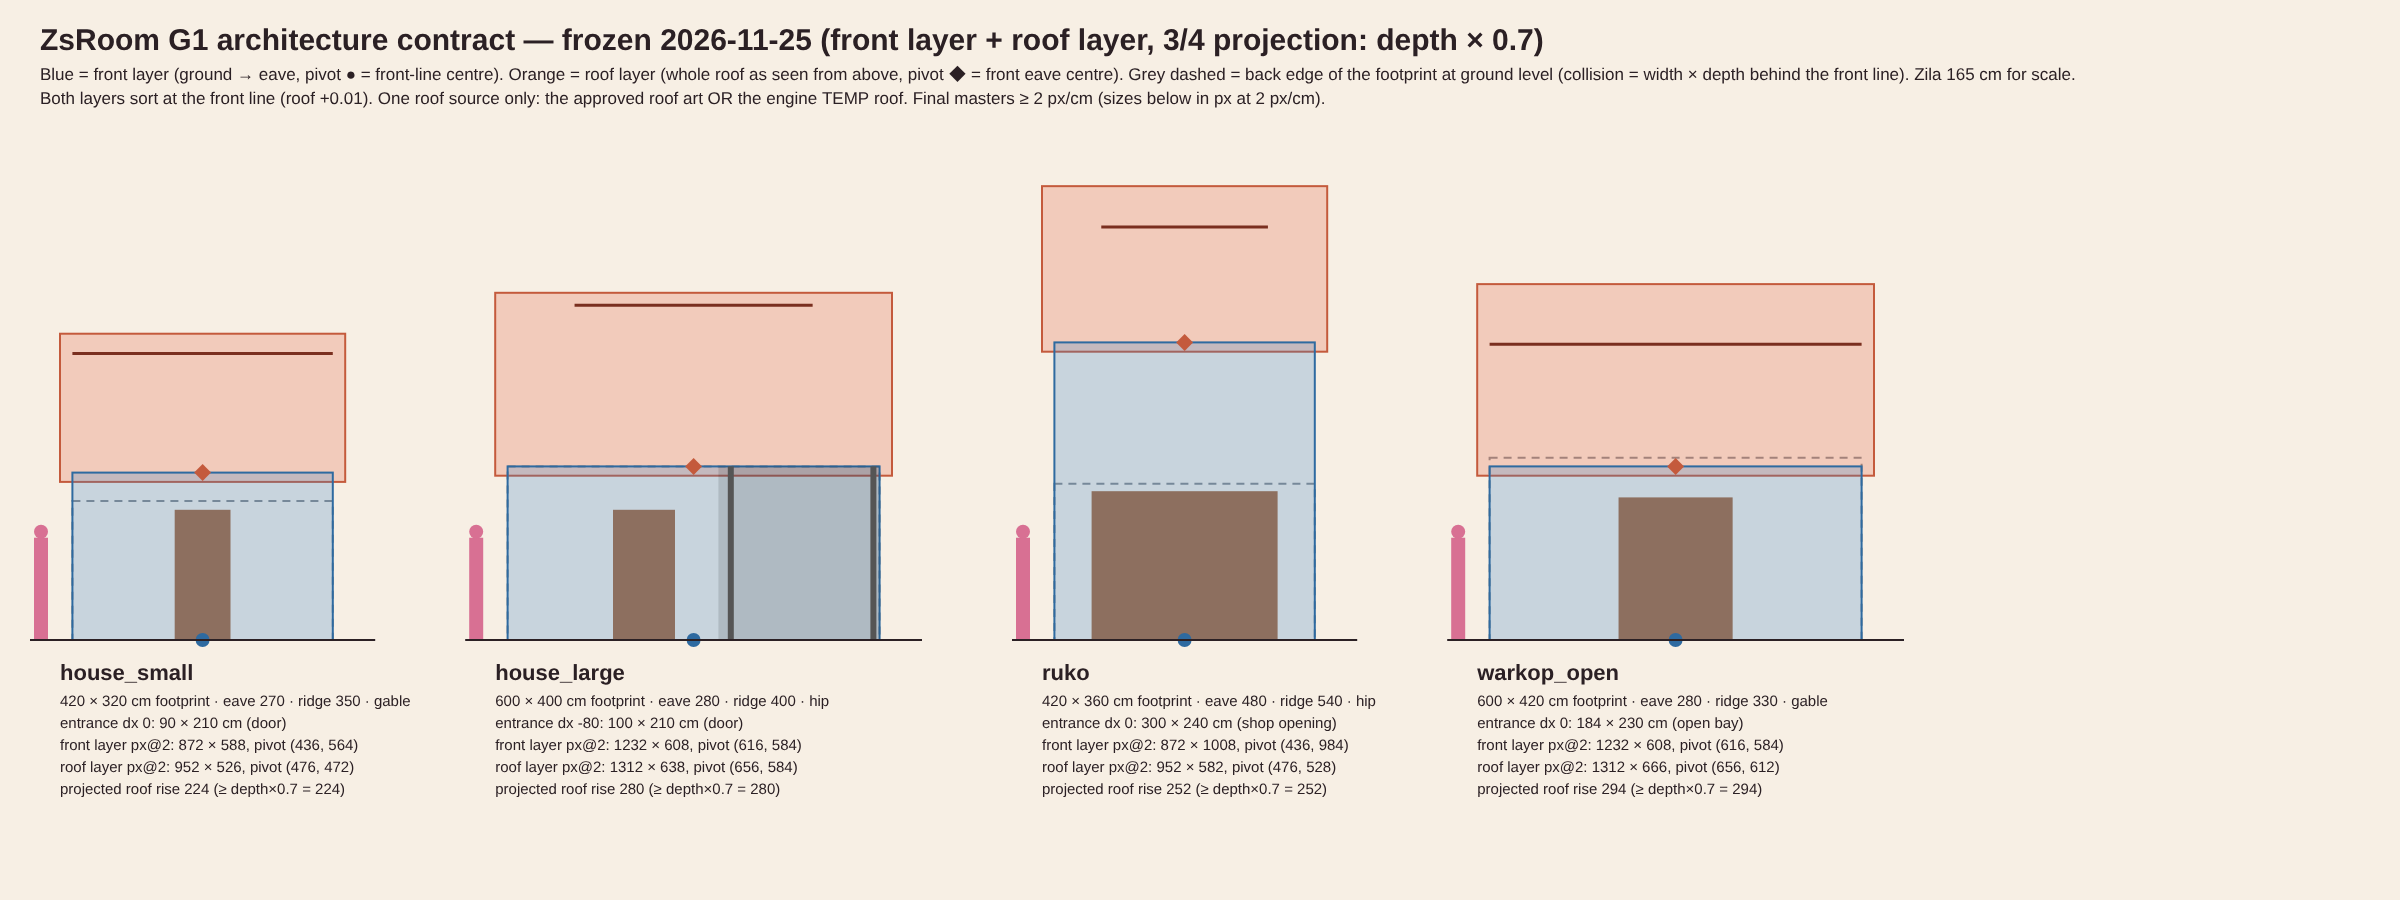
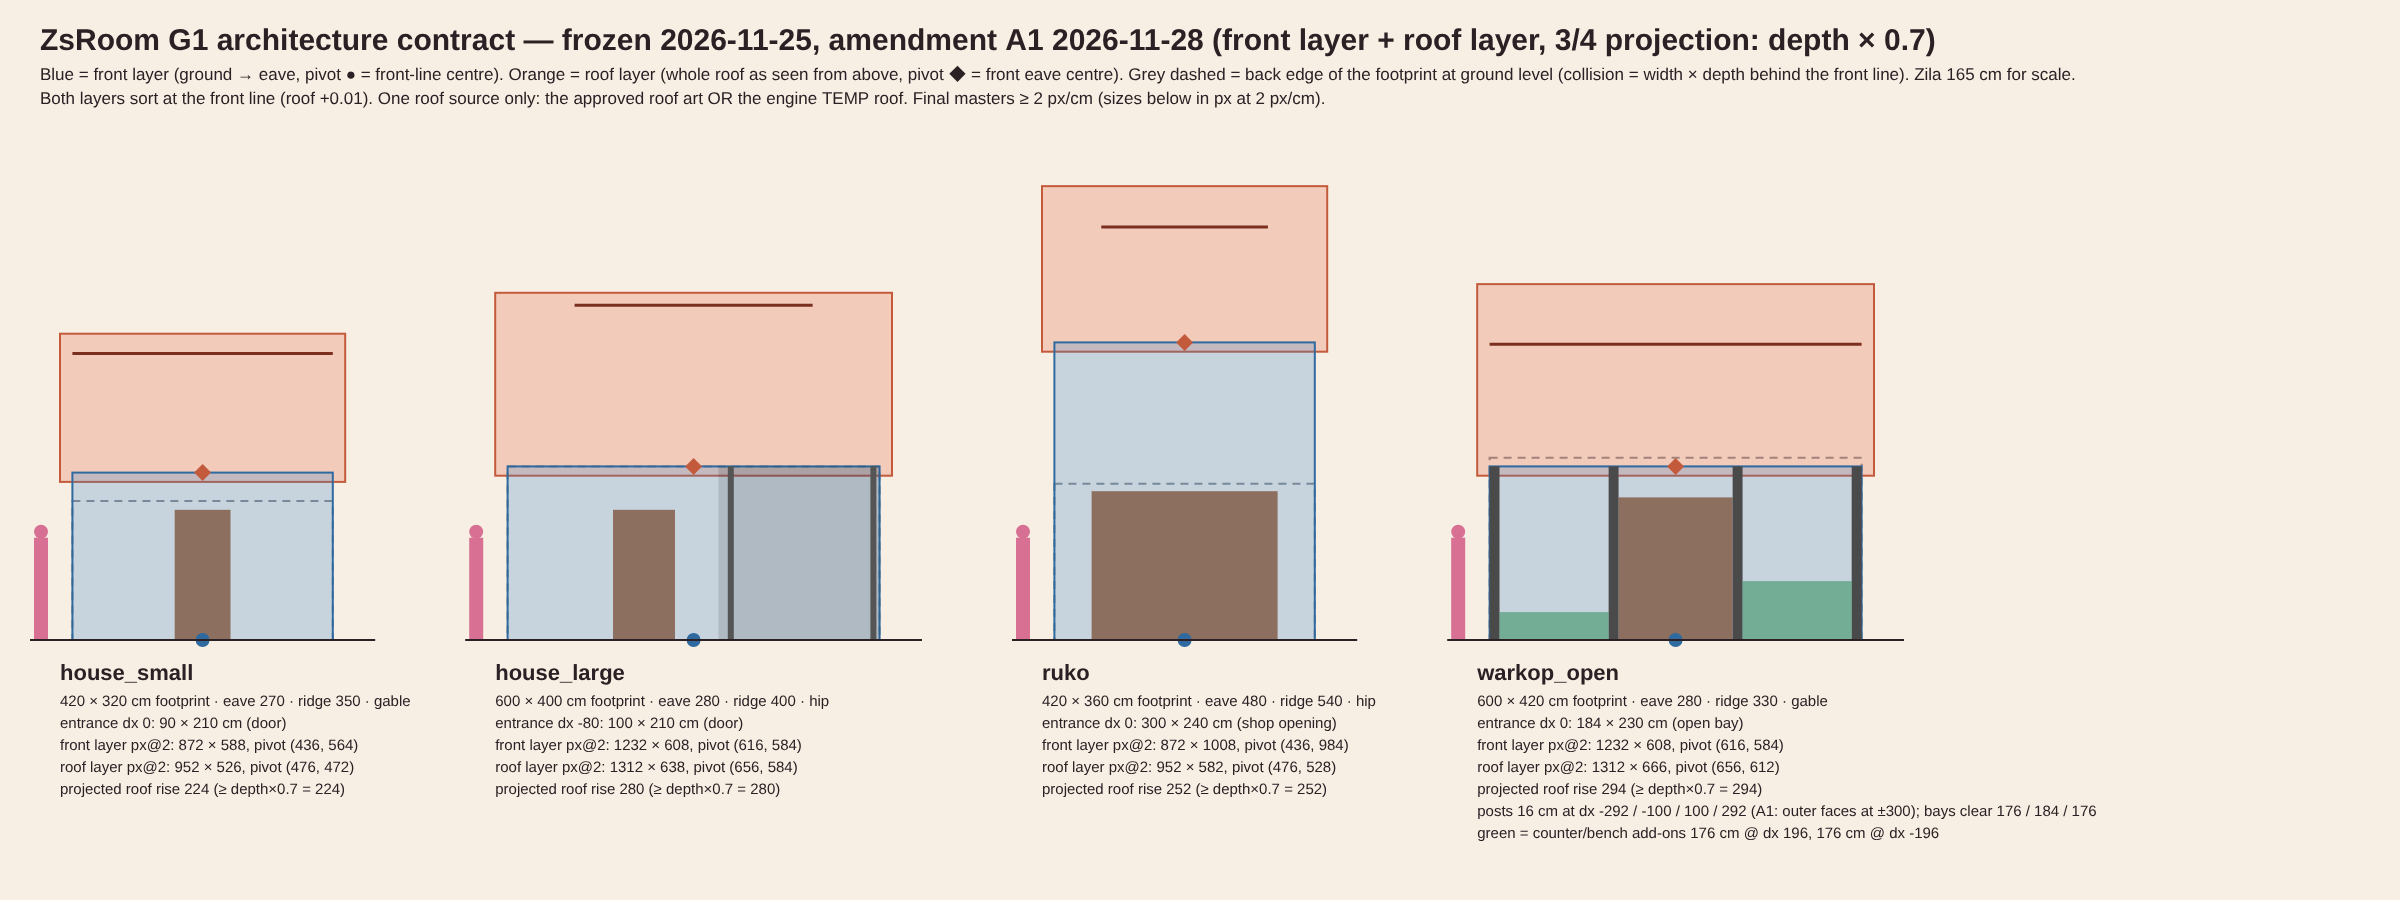
G1 contract A1: warkop outer posts flush with the 600 cm facade
Four 16 cm posts centred on ±300/±100 reached ±308 cm (616 cm painted
front on a 600 cm facade). Amendment A1 moves only the outer post centres
to ±292: outer faces are the facade edges; inner posts, the 184 x 230
centre entrance, the 160 cm trigger, footprint, collision and routes
are unchanged.

Consequence: outer bays are 176 cm clear, so the counter and bench
add-ons are 176 cm wide, centred in their bays (dx ±196), and may not
reach past their sides (new validator check sideOverhangPx, stricter;
the ±4 cm tolerance alone would have let a 184 cm counter cover posts).

- archetypes.json: amendment record, post edges, bays, add-on dx/width
- specs: warkop front/counter/bench specVersion 1.1.0, add-on frames
- TEMP warkop posts read the contract (identical pixels)
- contract sheet redrawn with posts, bays and add-ons
- unit tests: posts inside facades, bays = gaps between post faces,
  entrance/trigger unchanged, add-ons fit bays, 616 cm front fails

Claude-Session: https://claude.ai/code/session_01P67KtqJMN8ARmJbwhSuoYs

diff --git a/tests/unit/architecture-contract.test.ts b/tests/unit/architecture-contract.test.ts
@@ -74,3 +74,66 @@ describe('G1 architecture contract', () => {
     expect(roofPivot(ruko)).toEqual({ x: 500, y: 2600 * DEPTH_SCALE - 480 });
   });
 });
+
+describe('G1 contract amendment A1: posts and bays stay inside the facade', () => {
+  type Bay = { kind: string; postCentresDx: number[]; postWidthCm: number; postEdgesCm: number[][]; bays: { name: string; dx: number; clearFromCm: number; clearToCm: number; clearWidthCm: number }[] };
+  const raw = (archetypeData as any).archetypes;
+
+  it('every post of every frozen archetype (warkop bays, house porch) lies within the facade width', () => {
+    for (const id of FROZEN) {
+      const c = raw[id].contract, half = c.widthCm / 2;
+      const posts: { dx: number; w: number }[] = [
+        ...(c.porch?.posts ?? []).map((dx: number) => ({ dx, w: 16 })),
+        ...((c.openings ?? []).filter((o: any) => o.kind === 'bay') as Bay[]).flatMap((b) => b.postCentresDx.map((dx) => ({ dx, w: b.postWidthCm }))),
+      ];
+      for (const p of posts) {
+        expect(p.dx - p.w / 2, `${id} post at ${p.dx}`).toBeGreaterThanOrEqual(-half);
+        expect(p.dx + p.w / 2, `${id} post at ${p.dx}`).toBeLessThanOrEqual(half);
+      }
+    }
+  });
+
+  it('warkop: outer post faces flush at ±300, the 184 × 230 centre entrance and its 160 cm trigger unchanged', () => {
+    const c = raw.warkop_open.contract, bay = c.openings.find((o: any) => o.kind === 'bay') as Bay;
+    expect(bay.postCentresDx).toEqual([-292, -100, 100, 292]);
+    expect(bay.postWidthCm).toBe(16);
+    expect(bay.postEdgesCm).toEqual(bay.postCentresDx.map((dx) => [dx - 8, dx + 8]));
+    expect(bay.postEdgesCm[0]![0]).toBe(-c.widthCm / 2);
+    expect(bay.postEdgesCm[3]![1]).toBe(c.widthCm / 2);
+    // bays are exactly the gaps between neighbouring post faces
+    bay.bays.forEach((b, i) => {
+      expect([b.clearFromCm, b.clearToCm]).toEqual([bay.postEdgesCm[i]![1], bay.postEdgesCm[i + 1]![0]]);
+      expect(b.clearWidthCm).toBe(b.clearToCm - b.clearFromCm);
+      expect(b.dx).toBe((b.clearFromCm + b.clearToCm) / 2);
+    });
+    const centre = bay.bays.find((b) => b.name === 'centre')!;
+    expect(centre.clearWidthCm).toBe(c.entrance.clearWidthCm);
+    expect(c.entrance).toMatchObject({ dx: 0, clearWidthCm: 184, clearHeightCm: 230, triggerWidthCm: 160 });
+    expect(c.entrance.triggerWidthCm).toBeLessThanOrEqual(centre.clearWidthCm);
+    expect(c.amendments.map((a: any) => a.id)).toContain('G1-contract-1/A1');
+  });
+
+  it('warkop: counter and bench add-ons fit their bays, and their specs match the contract', () => {
+    const c = raw.warkop_open.contract, bay = c.openings.find((o: any) => o.kind === 'bay') as Bay;
+    for (const [key, name] of [['counter', 'right'], ['bench', 'left']] as const) {
+      const a = c.layers.addOns[key], b = bay.bays.find((q) => q.name === name)!;
+      expect(a.dx, key).toBe(b.dx);
+      expect(a.dx - a.widthCm / 2, key).toBeGreaterThanOrEqual(b.clearFromCm);
+      expect(a.dx + a.widthCm / 2, key).toBeLessThanOrEqual(b.clearToCm);
+      const s = getPropSpec(a.assetId) as any;
+      expect(s.footprint.widthCm, key).toBe(a.widthCm);
+      expect(s.heightsCm.top, key).toBe(a.heightCm);
+      expect(s.canvas).toEqual({ width: a.widthCm + 16, height: a.heightCm + 24 });
+      expect(s.production.envelope).toMatchObject({ width: a.widthCm * 2, height: a.heightCm * 2, bayDx: a.dx });
+    }
+  });
+
+  it('warkop gameplay is untouched: footprint, door and solids are the same as before A1', () => {
+    const w = town.buildings!.find((b) => b.id === 'warkop')!;
+    expect(w.x1 - w.x0).toBe(600);
+    expect(w.depth).toBe(420);
+    const door = town.data.doors.find((d) => d.id === 'warkop_door')!;
+    expect(door.w).toBe(160);
+    expect(door.x + door.w / 2).toBe((w.x0 + w.x1) / 2);
+  });
+});

diff --git a/tests/unit/world-art-pipeline.test.ts b/tests/unit/world-art-pipeline.test.ts
@@ -172,6 +172,26 @@ describe('invalid world submissions', () => {
     expect(failed(r)).toEqual(expect.arrayContaining(['envelope bottom (on the pivot line)']));
   });
 
+  it('A1: a warkop front with its outer posts centred on ±300 (painted 616 cm) still fails; posts flush at ±300 pass', async () => {
+    const p = productionSpec(specs.get('world_warkop_open')!), v = p.world.envelope, cx = p.pivot.x;
+    const post = (dx: number) => ({ x: cx + (dx - 8) * 2, y: v.y, width: 32, height: v.height });
+    const fascia = { x: v.x, y: v.y, width: v.width, height: 100 }, interior = { x: v.x + 40, y: v.y + 100, width: v.width - 80, height: v.height - 100 };
+    const old = await submit('world_warkop_open', await canvasPng(p.canvas.width, p.canvas.height, [fascia, interior, ...[-300, -100, 100, 300].map(post)]));
+    // ±308 cm reaches the canvas edge: wrong width, and through the transparent rim
+    expect(failed(old)).toEqual(expect.arrayContaining(['envelope width (facade 600 cm)', 'transparent edge padding']));
+    const a1 = await submit('world_warkop_open', await canvasPng(p.canvas.width, p.canvas.height, [fascia, interior, ...[-292, -100, 100, 292].map(post)]));
+    expect(a1.errors).toEqual([]);
+  });
+
+  it('A1: a 184 cm counter no longer fits its 176 cm bay (it would cover the posts); 176 and slightly narrower pass', async () => {
+    const p = productionSpec(specs.get('world_warkop_counter')!), v = p.world.envelope;
+    const wide = await submit('world_warkop_counter', await canvasPng(p.canvas.width, p.canvas.height, [{ ...v, x: v.x - 8, width: v.width + 16 }]));
+    expect(failed(wide)).toEqual(['stays between its bay posts (max 0 cm past the envelope sides)']);
+    expect((await submit('world_warkop_counter', await perfect('world_warkop_counter'))).errors).toEqual([]);
+    const narrow = await submit('world_warkop_counter', await canvasPng(p.canvas.width, p.canvas.height, [{ ...v, x: v.x + 6, width: v.width - 12 }]));
+    expect(narrow.errors).toEqual([]);
+  });
+
   it('art in the 1 px/cm TEMP frame is refused: HD canvas required', async () => {
     const e = specs.get('world_house_large')!;
     const r = await submit('world_house_large', await canvasPng(e.spec.canvas.width, e.spec.canvas.height, [{ x: 8, y: 12, width: 600, height: 280 }]));

diff --git a/src/ui/placeholders.ts b/src/ui/placeholders.ts
@@ -1,6 +1,10 @@
 import * as Phaser from 'phaser';
 import { DEPTH_SCALE as K } from '../core/projection';
 import type { PropSpec, TempArtSpec } from '../core/specs';
+import archetypeData from '../data/archetypes.json';
+
+/** Warkop bay posts straight from the frozen contract (src/data/archetypes.json, amendment A1). */
+const WARKOP_POSTS = archetypeData.archetypes.warkop_open.contract.openings.find((o) => o.kind === 'bay') as unknown as { postCentresDx: number[]; postWidthCm: number };
 
 /**
  * TEMPORARY ARTWORK — engine-drawn stand-ins for assets whose final illustration is not approved yet.
@@ -646,7 +650,7 @@ function openWarkop(ctx: Ctx2, g: Geom, t: TempArtSpec, wall: string, accent: st
   rr(ctx, g.L + W * 0.12, open + 22 * d, W * 0.28, 70 * d, 3 * d); ctx.fillStyle = '#2F3A2F'; ctx.fill();                  // menu board
   for (let i = 0; i < 4; i++) { ctx.fillStyle = 'rgba(255,255,255,0.75)'; ctx.fillRect(g.L + W * 0.12 + 10 * d, open + (34 + i * 13) * d, W * 0.2, 3 * d); }
   ctx.fillStyle = '#FFE9B0'; ctx.beginPath(); ctx.arc(g.px, open + 14 * d, 7 * d, 0, Math.PI * 2); ctx.fill();            // hanging lamp
-  for (const f of [0, 1 / 3, 2 / 3, 1]) { const x = Math.min(g.R - 16 * d, Math.max(g.L, g.L + W * f - 8 * d)); rr(ctx, x, y0 + 20 * d, 16 * d, y1 - y0 - 20 * d, 3 * d); paint(ctx, tone(wall, 0.95), x, y0, x + 16 * d, y1, 1.15, 0.8); }   // posts: three 200 cm bays (contract)
+  for (const dx of WARKOP_POSTS.postCentresDx) { const x = g.px + (dx - WARKOP_POSTS.postWidthCm / 2) * d; rr(ctx, x, y0 + 20 * d, WARKOP_POSTS.postWidthCm * d, y1 - y0 - 20 * d, 3 * d); paint(ctx, tone(wall, 0.95), x, y0, x + WARKOP_POSTS.postWidthCm * d, y1, 1.15, 0.8); }   // posts from the contract (A1: outer faces flush at ±300)
   rr(ctx, g.L, y0, W, open - y0, 3 * d); paint(ctx, wall, g.L, y0, g.R, open, 1.05, 0.9);                                  // fascia above the opening
   rr(ctx, g.px - W * 0.3, y0 + 12 * d, W * 0.6, open - y0 - 24 * d, 4 * d); paint(ctx, accent, g.px - W * 0.3, y0, g.px + W * 0.3, open, 1.12, 0.86);
   if (t.sign) label(ctx, String(t.sign), g.px, (y0 + open) / 2, Math.min(22 * d, (W * 0.55) / String(t.sign).length * 1.5));

diff --git a/docs/production/ARCHITECTURE_CONTRACT_G1.md b/docs/production/ARCHITECTURE_CONTRACT_G1.md
@@ -60,7 +60,7 @@ Every building is drawn from two stacked layers that share **one depth key, the 
 | **Projected roof rise (cm)** | 224 | 280 | 252 | 294 |
 | **Entrance** | door dx 0, 90 × 210 | door dx −80, 100 × 210 | shop opening dx 0, 300 × 240 (inspect only) | open centre bay dx 0, 184 × 230 |
 | **Door trigger** | 110 wide | 120 wide | none (background) | 160 wide |
-| **Other openings** | 2 windows at dx ±130, 80 wide, sill 90, head 190 | 2 windows at dx −220 and +190 (inside the porch), 100 wide | sign board 300 × 40 at 250–290; upper floor 300–480 | three 200 cm bays, post centres at dx −300 / −100 / 100 / 300 (posts 16 cm); counter in the right bay (95 cm), bench/shelf in the left bay |
+| **Other openings** | 2 windows at dx ±130, 80 wide, sill 90, head 190 | 2 windows at dx −220 and +190 (inside the porch), 100 wide | sign board 300 × 40 at 250–290; upper floor 300–480 | three bays; posts 16 cm, centres at dx **−292 / −100 / 100 / 292** (A1); outer post faces at ±300. Bays clear **176 / 184 / 176**. Counter 176 × 95 in the right bay (dx +196); bench/shelf 176 × 45 in the left bay (dx −196) |
 | **Porch / add-ons** | — | porch dx 40 → 300, wall set back 110, posts at dx 60 and 290, **not walkable** | awning at 240–270, projecting 60 (add-on). Envelope 320 × 72 cm (band 30 + 60 × 0.7); canvas 672 × 192 @2 px/cm; pivot (336, 168) at the awning's front edge | counter + bench are separate add-on layers |
 | **Front layer px @2 px/cm** (canvas; pivot) | 872 × 588; (436, 564) | 1232 × 608; (616, 584) | 872 × 1008; (436, 984) | 1232 × 608; (616, 584) |
 | **Roof layer px @2 px/cm** (canvas; pivot) | 952 × 526; (476, 472) | 1312 × 638; (656, 584) | 952 × 582; (476, 528) | 1312 × 666; (656, 612) |
@@ -122,7 +122,7 @@ The overhang is 20 cm on each side for all four; the front drop is 15 cm.
 | house_small (G1 A) | Door 176 → **210** high, 90 wide, centred. The roof needs the full **224 cm** projected rise for the 320 cm depth. Windows 80 wide at dx ±130. |
 | house_large (G1 B) | Door 165 → **210** high, 100 wide, at **dx −80**. Proportions to **600 × 400**, eave 280, hip roof to ridge 400 (projected rise **280**). Porch from dx 40 to 300 with the wall set back 110 cm; posts at dx 60 and 290. The porch gable goes into the roof layer, floor and posts into the front layer. |
 | ruko (G1 B) | Re-compose to **eave 480**: ground floor 0–300 (opening **300 × 240**), sign board 250–290, upper floor 300–480. The hip roof's projected rise is **252**. **≥ 840 px** content width at 2 px/cm (G1 had 757 px: re-author, no upscaling). Awning as a separate layer. Check the roof stays visible at the phone landscape camera. |
-| warkop_open (G1 C) | Re-compose to **600 wide, three 200 cm bays** (posts 16 cm at dx −300 / −100 / 100 / 300); the centre bay is the entrance, clear **184 × 230**. Eave 280, zinc gable ridge 330, projected rise **294**. The counter (right bay, 95 cm) and the bench/shelf (left bay) are **separate layers**, not baked. Depth 420. |
+| warkop_open (G1 C) | Re-compose to **600 wide, three bays**: posts 16 cm at dx **−292 / −100 / 100 / 292** (amendment A1, outer faces flush at ±300); the centre bay is the entrance, clear **184 × 230**. Counter and bench are **176 cm** wide, filling the outer bays. Eave 280, zinc gable ridge 330, projected rise **294**. The counter (right bay, 95 cm) and the bench/shelf (left bay) are **separate layers**, not baked. Depth 420. |
 
 **Submission:**
 - Use the spec ids above: they now exist, which resolves the G1 validator's only failing check.
@@ -130,6 +130,28 @@ The overhang is 20 cm on each side for all four; the front drop is 15 cm.
 - Production PRs go on separate branches.
 - Claude integrates them in an isolated branch, running the art validator and the P6.1 E2E.
 - Nothing is approved until the CD signs off.
+
+## 5a. Amendment A1 — warkop posts (2026-11-28, PR #47 review gate)
+
+**The contradiction:** four 16 cm posts centred on −300 / −100 / +100 / +300 reach ±308 cm. That is a 616 cm painted front for a 600 cm facade and footprint. The validator rightly refused it.
+
+**Options considered:**
+
+| Option | Verdict |
+|---|---|
+| Widen the facade to 616 cm | Rejected: it breaks the 600 × 420 footprint, the collision, the gaps to the neighbours and the town layout. |
+| Allow the posts to stick out of the envelope | Rejected: it would weaken the validator to pass art that disagrees with the collision footprint. |
+| Narrow the inner bays | Rejected: the 184 × 230 entrance is fixed. |
+| **Move the outer post centres to ±292** | **Adopted:** outer faces at exactly ±300, inner posts and entrance unchanged. |
+
+**What A1 fixes:**
+- **Posts:** 16 cm wide at dx −292 / −100 / +100 / +292. Post edges: [−300, −284], [−108, −92], [92, 108], [284, 300].
+- **Bays (clear):** left −284 → −108 = **176**; centre −92 → 92 = **184** (the entrance, trigger 160); right 108 → 284 = **176**. Post-centre spacing is 192 / 200 / 192.
+- **Add-ons:**
+  - counter 176 × 95, centred in the right bay (dx +196);
+  - bench/shelf 176 × 45, centred in the left bay (dx −196);
+  - neither may reach past its bay (validator `sideOverhangPx: 0`).
+- **Unchanged:** footprint 600 × 420, eave 280, roof, entrance 184 × 230, door trigger 160, collision, NPC routes, interior and saves. The TEMP placeholder already drew its outer posts flush with the edges, and now reads the post positions from the contract.
 
 ## 6. Open decisions for the Creative Director
 - Roof material per archetype: clay tile vs zinc. There is no verified Batuphat photo evidence yet; see the source register.

diff --git a/docs/production/WORLD_ART_PIPELINE.md b/docs/production/WORLD_ART_PIPELINE.md
@@ -49,12 +49,19 @@ This replaces the earlier "32 px" prose: the formula `(W + 16) × (E + 24)` at 1
 | world_ruko | front | 872 × 1008 | 436, 984 | 16, 24, 840 × 960 | — |
 | world_ruko_roof | roof | 952 × 582 | 476, 528 | 16, 24, 920 × 534 (rise 252 + 15) | covers 840 × 504 |
 | world_ruko_awning | add-on | **672 × 192** | **336, 168** | 16, 24, 640 × 144 (**30 cm band + 60 cm projection × 0.7 = 72 cm**) | pivot = front edge of the awning |
-| world_warkop_open | front | 1232 × 608 | 616, 584 | 16, 24, 1200 × 560 | — |
+| world_warkop_open | front | 1232 × 608 | 616, 584 | 16, 24, 1200 × 560 | A1: posts 16 cm at dx −292 / −100 / +100 / +292; the outer post faces are the envelope edges |
 | world_warkop_roof | roof | 1312 × 666 | 656, 612 | 16, 24, 1280 × 618 (rise 294 + 15) | covers 1200 × 588 |
-| world_warkop_counter | add-on | 400 × 238 | 200, 214 | 16, 24, 368 × 190 (184 × 95 cm) | — |
-| world_warkop_bench | add-on | 400 × 138 | 200, 114 | 16, 24, 368 × 90 (184 × 45 cm) | — |
+| world_warkop_counter | add-on | **384 × 238** | **192, 214** | 16, 24, **352** × 190 (**176** × 95 cm) | A1: right bay, dx +196; **no overhang past the sides** (`sideOverhangPx: 0`) |
+| world_warkop_bench | add-on | **384 × 138** | **192, 114** | 16, 24, **352** × 90 (**176** × 45 cm) | A1: left bay, dx −196; no overhang past the sides |
 
 **Awning correction:** the earlier awning canvas (336 × 54 at 1 px/cm) had no room for the 60 cm projection, so the art could only be a flat band. The awning's runtime spec now uses 336 × 96 at 1 px/cm. It is not placed in any map yet, so nothing in the game changes.
+
+**Amendment A1 (2026-11-28):**
+- **The problem:** the warkop's outer posts were centred on ±300 cm, so they reached ±308 cm. That gives a 616 cm painted front on a 600 cm facade.
+- **The fix:** the outer posts move to ±292 cm, so their outer faces are the facade edges. The inner posts (±100), the 184 × 230 cm centre entrance and its 160 cm trigger are unchanged.
+- **The consequence:** the outer bays are now 176 cm clear, so the counter and bench are 176 cm wide.
+- **New check:** add-ons that sit between posts may not reach past their envelope sides (`envelope.sideOverhangPx`). Otherwise a too-wide counter would cover the posts and still pass the ±4 cm tolerance.
+- **Spec versions:** front, counter and bench are now specVersion 1.1.0. The warkop roof is unchanged (1.0.0).
 
 **Not automated:** door and opening rectangles inside a facade cannot be measured reliably from pixels. They are checked on the contract overlay in review, not by this validator.
 
